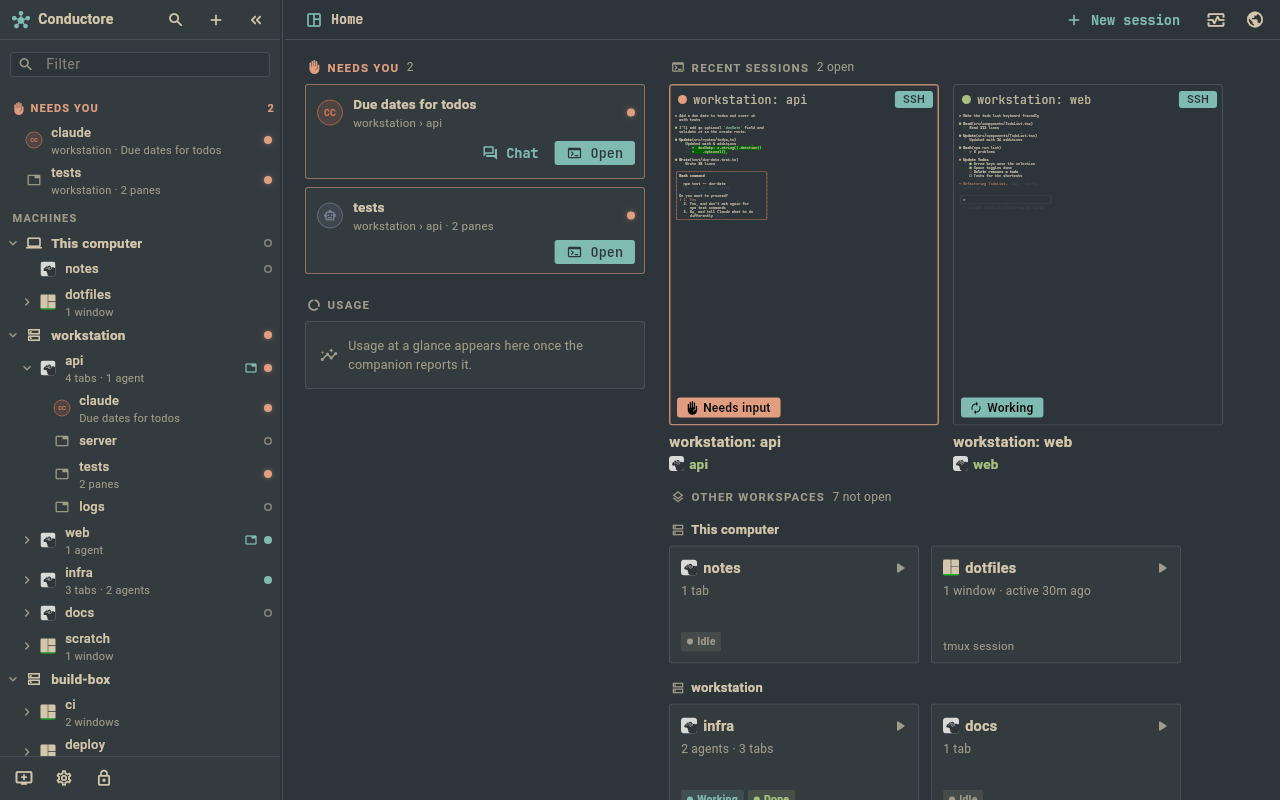
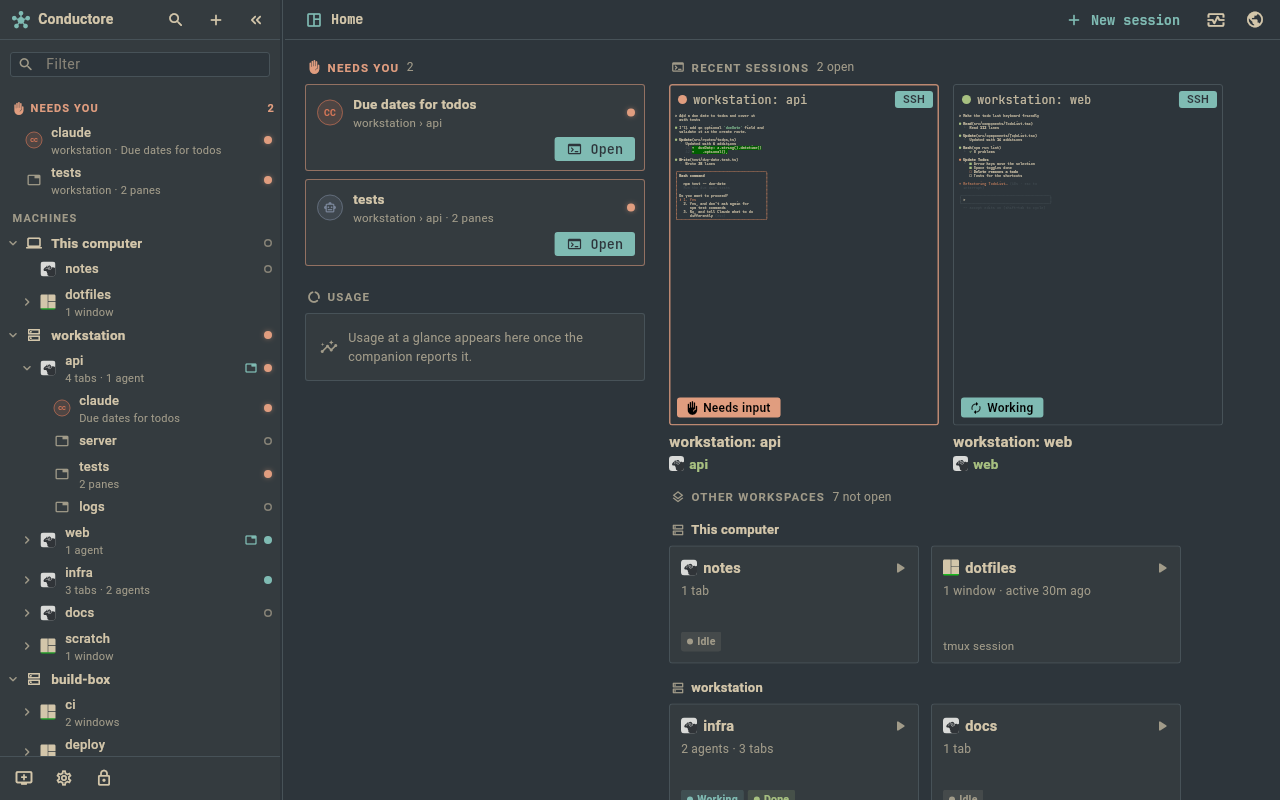
fix(desktop-shell): unread markers in the text colour, apart from state dots
Also a test that the terminal's shortcuts (Ctrl+Tab, Alt+digit, zoom,
F11, the quick switcher, Ctrl+Shift+W) keep working inside the shell,
and the third screenshot: a terminal next to its Chat View.

Changed region(s): [[0.25, 0.1562, 0.5, 0.3438], [0.25, 0.3438, 0.4688, 0.4688]]

diff --git a/test/screenshots/readme_screenshots_test.dart b/test/screenshots/readme_screenshots_test.dart
@@ -11,6 +11,7 @@ import 'package:conduit/core/theme/theme_controller.dart';
 import 'package:conduit/core/theme/theme_preferences_repository.dart';
 import 'package:conduit/features/agent_attention/data/conductore_host_attention_provider.dart';
 import 'package:conduit/features/agent_attention/data/herdr_attention_provider.dart';
+import 'package:conduit/features/agent_attention/domain/agent_attention.dart';
 import 'package:conduit/features/agent_attention/domain/agent_command_runner.dart';
 import 'package:conduit/features/agent_attention/presentation/agent_attention_controller.dart';
 import 'package:conduit/features/agent_attention/presentation/agent_attention_sheet.dart';
@@ -18,11 +19,14 @@ import 'package:conduit/features/app_lock/presentation/app_lock_controller.dart'
 import 'package:conduit/features/backup/data/app_backup_service.dart';
 import 'package:conduit/features/chat_view/presentation/chat_view_controller.dart';
 import 'package:conduit/features/chat_view/presentation/chat_view_page.dart';
+import 'package:conduit/features/chat_view/presentation/chat_view_presenter.dart';
 import 'package:conduit/features/companion_setup/data/companion_bundle.dart';
 import 'package:conduit/features/companion_setup/presentation/companion_setup_controller.dart';
 import 'package:conduit/features/companion_setup/presentation/companion_setup_page.dart';
 import 'package:conduit/features/desktop_shell/data/desktop_shell_store.dart';
 import 'package:conduit/features/desktop_shell/domain/shell_layout.dart';
+import 'package:conduit/features/desktop_shell/domain/sidebar_prefs.dart';
+import 'package:conduit/features/desktop_shell/presentation/desktop_home.dart';
 import 'package:conduit/features/desktop_shell/presentation/desktop_shell_controller.dart';
 import 'package:conduit/features/hosts/domain/home_preferences.dart';
 import 'package:conduit/features/hosts/domain/saved_host.dart';
@@ -1236,6 +1240,103 @@ void main() {
       );
       await pumpFrames(tester, 6);
       await saveShot(tester, '23-desktop-shell-split', pixelRatio: 1);
+      await tearDownPage(tester);
+    });
+  });
+
+  testWidgets('24 desktop shell chat split', (tester) async {
+    await asDesktop(() async {
+      final shell = await pumpShellHome(tester);
+      // A group, a pin and a couple of unread rows in the sidebar.
+      shell.updatePrefs(
+        (prefs) => prefs
+            .addGroup(
+              const SidebarGroup(
+                id: 'clients',
+                name: 'Clients',
+                machineIds: ['build-box'],
+              ),
+            )
+            .togglePin('m/workstation/h/w3'),
+      );
+      shell
+        ..markUnread('m/workstation/h/w2')
+        ..markUnread('m/build-box/t/ci');
+      final thread = [
+        stamped(
+          userLine('u1', 'Add a due date to todos and cover it with tests'),
+          const Duration(minutes: 12),
+        ),
+        assistantLine('a1', [
+          text(
+            "I'll add an optional **`dueDate`** to the todo schema, then "
+            'validate it as an ISO date and sort overdue todos first.',
+          ),
+          toolUse('t1', 'Bash', {
+            'command': 'npm test -- due-date',
+            'description': 'Run the due date tests',
+          }),
+        ]),
+      ];
+      final controller = ChatViewController(
+        runner: ScriptedAgentCommandRunner([
+          ok(
+            livePage(
+              thread,
+              state: 'needs_permission',
+              started: const Duration(minutes: 12),
+              pending: [
+                {
+                  'id': 'req-1',
+                  'toolName': 'Bash',
+                  'summary': 'npm test -- due-date',
+                  'toolInput': {
+                    'command': 'npm test -- due-date',
+                    'description': 'Run the due date tests',
+                  },
+                },
+              ],
+            ),
+          ),
+        ]),
+        sessionId: 's-api',
+        fallbackName: 'todo-api',
+        decide: (_, _) async {},
+        pollInterval: const Duration(days: 1),
+      );
+      final home = tester.state<DesktopHomeState>(find.byType(DesktopHome));
+      final api = const ConnectTarget.herdr(
+        workspaceId: 'w1',
+        label: 'api',
+      ).apply(workstation);
+      home.embedding.host!.presentChat(
+        ChatViewRequest(
+          host: api,
+          agent: const AgentInfo(
+            id: 's-api',
+            name: 'todo-api',
+            state: AgentAttentionState.needsInput,
+            kind: 'claude',
+          ),
+          controller: controller,
+          onOpenTerminal: () {},
+          onDispose: () {},
+        ),
+      );
+      await pumpFrames(tester, 4);
+      final views = home.embedding.host!.viewIds.toSet();
+      shell.editLayout(
+        views,
+        (layout) => layout
+            .showIn(layout.focusedPane.id, 'session:${api.id}')
+            .split(
+              layout.focusedPane.id,
+              ShellEdge.right,
+              'chat:${api.id}:s-api',
+            ),
+      );
+      await pumpFrames(tester, 8);
+      await saveShot(tester, '24-desktop-shell-chat-split', pixelRatio: 1);
       await tearDownPage(tester);
     });
   });

diff --git a/test/features/desktop_shell/desktop_shell_test.dart b/test/features/desktop_shell/desktop_shell_test.dart
@@ -615,4 +615,72 @@ void main() {
     expect(h.store.state!['rightPanel'], 'none');
     await tearDownShell(tester);
   }, variant: _linux);
+
+  testWidgets('the terminal shortcuts keep working inside the shell', (
+    tester,
+  ) async {
+    final h = await pumpShell(tester);
+    final a = await h.open(
+      tester,
+      workstation,
+      const ConnectTarget.tmux('main'),
+    );
+    final b = await h.open(tester, buildBox, const ConnectTarget.tmux('ci'));
+    h.shell.showHome = false;
+    await settleShell(tester);
+    expect(h.workspace.activeSession, b);
+
+    // Ctrl+Tab and Alt+1 switch sessions in the focused pane.
+    await _keys(tester, [
+      LogicalKeyboardKey.controlLeft,
+    ], LogicalKeyboardKey.tab);
+    expect(h.workspace.activeSession, a);
+    await _keys(tester, [
+      LogicalKeyboardKey.altLeft,
+    ], LogicalKeyboardKey.digit2);
+    expect(h.workspace.activeSession, b);
+    expect(h.shell.layout.value.focusedView, _view(b.host.id));
+
+    // Zoom.
+    final size = h.theme.terminalFontSize;
+    await _keys(tester, [
+      LogicalKeyboardKey.controlLeft,
+    ], LogicalKeyboardKey.equal);
+    await tester.pump();
+    expect(h.theme.terminalFontSize, greaterThan(size));
+
+    // F11 hides the sidebar with the terminal's chrome.
+    await _keys(tester, const [], LogicalKeyboardKey.f11);
+    expect(find.byKey(const ValueKey('shell-sidebar')), findsNothing);
+    await _keys(tester, const [], LogicalKeyboardKey.f11);
+    expect(find.byKey(const ValueKey('shell-sidebar')), findsOneWidget);
+
+    // The quick switcher opens once (the shell's, not the page's too).
+    await _keys(tester, [
+      LogicalKeyboardKey.controlLeft,
+      LogicalKeyboardKey.shiftLeft,
+    ], LogicalKeyboardKey.keyK);
+    await tester.pumpAndSettle();
+    expect(find.byKey(const ValueKey('quick-switcher')), findsOneWidget);
+    await tester.sendKeyEvent(LogicalKeyboardKey.escape);
+    await tester.pumpAndSettle();
+
+    // Ctrl+Shift+W closes the focused session (tmux detaches, no ask);
+    // the last one leaves the dashboard.
+    await _keys(tester, [
+      LogicalKeyboardKey.controlLeft,
+      LogicalKeyboardKey.shiftLeft,
+    ], LogicalKeyboardKey.keyW);
+    await settleShell(tester);
+    expect(h.workspace.sessions, [a]);
+    await _keys(tester, [
+      LogicalKeyboardKey.controlLeft,
+      LogicalKeyboardKey.shiftLeft,
+    ], LogicalKeyboardKey.keyW);
+    await settleShell(tester);
+    expect(h.workspace.sessions, isEmpty);
+    expect(_home(tester).terminalVisible, isFalse);
+    expect(find.byType(DesktopHome), findsOneWidget);
+    await tearDownShell(tester);
+  }, variant: _linux);
 }

diff --git a/lib/features/desktop_shell/presentation/widgets/shell_state_dot.dart b/lib/features/desktop_shell/presentation/widgets/shell_state_dot.dart
@@ -54,7 +54,8 @@ class ShellStateDot extends StatelessWidget {
   }
 }
 
-/// The unread marker: a small accent dot, with the count when above one.
+/// The unread marker: a small dot in the text colour (state dots carry
+/// the status colours), with the count when above one.
 class ShellUnreadBadge extends StatelessWidget {
   const ShellUnreadBadge({required this.count, super.key});
 
@@ -64,34 +65,38 @@ class ShellUnreadBadge extends StatelessWidget {
   Widget build(BuildContext context) {
     if (count <= 0) return const SizedBox.shrink();
     final palette = AppPalette.of(context);
+    final color = palette.foreground;
     if (count == 1) {
-      return Container(
-        key: const ValueKey('unread-dot'),
-        width: 7,
-        height: 7,
-        decoration: BoxDecoration(
-          color: palette.accent,
-          shape: BoxShape.circle,
+      return Semantics(
+        label: 'unread',
+        child: Container(
+          key: const ValueKey('unread-dot'),
+          width: 7,
+          height: 7,
+          decoration: BoxDecoration(color: color, shape: BoxShape.circle),
         ),
       );
     }
-    return Container(
-      key: const ValueKey('unread-count'),
-      padding: const EdgeInsets.symmetric(horizontal: 5),
-      constraints: const BoxConstraints(minWidth: 16),
-      height: 16,
-      alignment: Alignment.center,
-      decoration: BoxDecoration(
-        color: palette.accent,
-        borderRadius: BorderRadius.circular(8),
-      ),
-      child: Text(
-        count > 99 ? '99+' : '$count',
-        style: TextStyle(
-          color: palette.onAccent,
-          fontSize: 10,
-          fontWeight: FontWeight.w800,
-          height: 1.1,
+    return Semantics(
+      label: '$count unread',
+      child: Container(
+        key: const ValueKey('unread-count'),
+        padding: const EdgeInsets.symmetric(horizontal: 5),
+        constraints: const BoxConstraints(minWidth: 16),
+        height: 16,
+        alignment: Alignment.center,
+        decoration: BoxDecoration(
+          color: color,
+          borderRadius: BorderRadius.circular(8),
+        ),
+        child: Text(
+          count > 99 ? '99+' : '$count',
+          style: TextStyle(
+            color: palette.canvas,
+            fontSize: 10,
+            fontWeight: FontWeight.w800,
+            height: 1.1,
+          ),
         ),
       ),
     );

diff --git a/lib/features/desktop_shell/presentation/widgets/shell_sidebar.dart b/lib/features/desktop_shell/presentation/widgets/shell_sidebar.dart
@@ -684,6 +684,10 @@ class _SidebarRowTile extends StatelessWidget {
                             ],
                           ),
                   ),
+                  if (unreadCount > 0) ...[
+                    const SizedBox(width: 6),
+                    ShellUnreadBadge(count: unreadCount),
+                  ],
                   if (pinned)
                     Padding(
                       padding: const EdgeInsets.only(left: 4),
@@ -709,10 +713,6 @@ class _SidebarRowTile extends StatelessWidget {
                   if (node.dot != SidebarDot.none) ...[
                     const SizedBox(width: 7),
                     ShellStateDot(dot: node.dot),
-                  ],
-                  if (unreadCount > 0) ...[
-                    const SizedBox(width: 6),
-                    ShellUnreadBadge(count: unreadCount),
                   ],
                 ],
               ),

diff --git a/lib/features/desktop_shell/presentation/widgets/shell_tab_strip.dart b/lib/features/desktop_shell/presentation/widgets/shell_tab_strip.dart
@@ -218,15 +218,15 @@ class _ShellTabState extends State<_ShellTab> {
         mainAxisSize: MainAxisSize.min,
         children: [
           tab.leading,
-          if (tab.dot != SidebarDot.none) ...[
-            const SizedBox(width: 5),
-            ShellStateDot(dot: tab.dot, size: 7),
-          ],
           const SizedBox(width: 6),
           Flexible(child: label),
           if (tab.unread && !focused) ...[
             const SizedBox(width: 5),
             const ShellUnreadBadge(count: 1),
+          ],
+          if (tab.dot != SidebarDot.none) ...[
+            const SizedBox(width: 6),
+            ShellStateDot(dot: tab.dot, size: 7),
           ],
           if (tab.dirty) ...[
             const SizedBox(width: 4),
